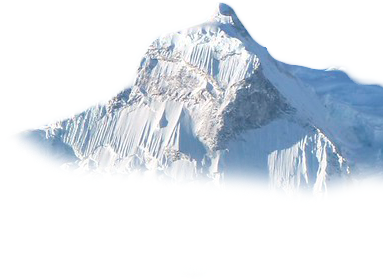
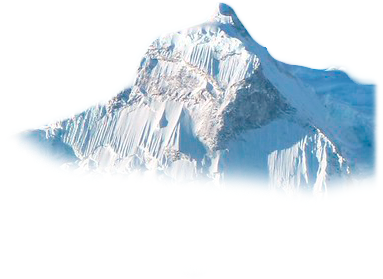
mobile optimization

diff --git a/css/main.css b/css/main.css
@@ -114,7 +114,7 @@ div#coriosidades img#crianca {
 
 img#montanha {
   position: absolute;
-  margin-left: 71%;
+  margin-left: 60%;
   margin-top: -350px;
   z-index: -1;
 }
@@ -140,8 +140,10 @@ div#geografia p#esq {
 }
 
 img#mapa2 {
-  margin-left: 40%;
+  position: relative;
+  margin-left: 20%;
   margin-top: -100px;
+  z-index: -1;
 }
 
 img#mapa3 {

diff --git a/index.html b/index.html
@@ -18,7 +18,7 @@
   <h1>Menu Principal</h1>
   <ul>
     <li><a href="#coriosidades">Curiosidades</a></li>
-    <li ><a href="#geografia">Geografia</a></li>
+    <li><a href="#geografia">Geografia</a></li>
     <li><a href="#bandeira">Bandeira</a></li>
     <li><a href="#paisagens">Paisagens</a></li>
   </ul>
